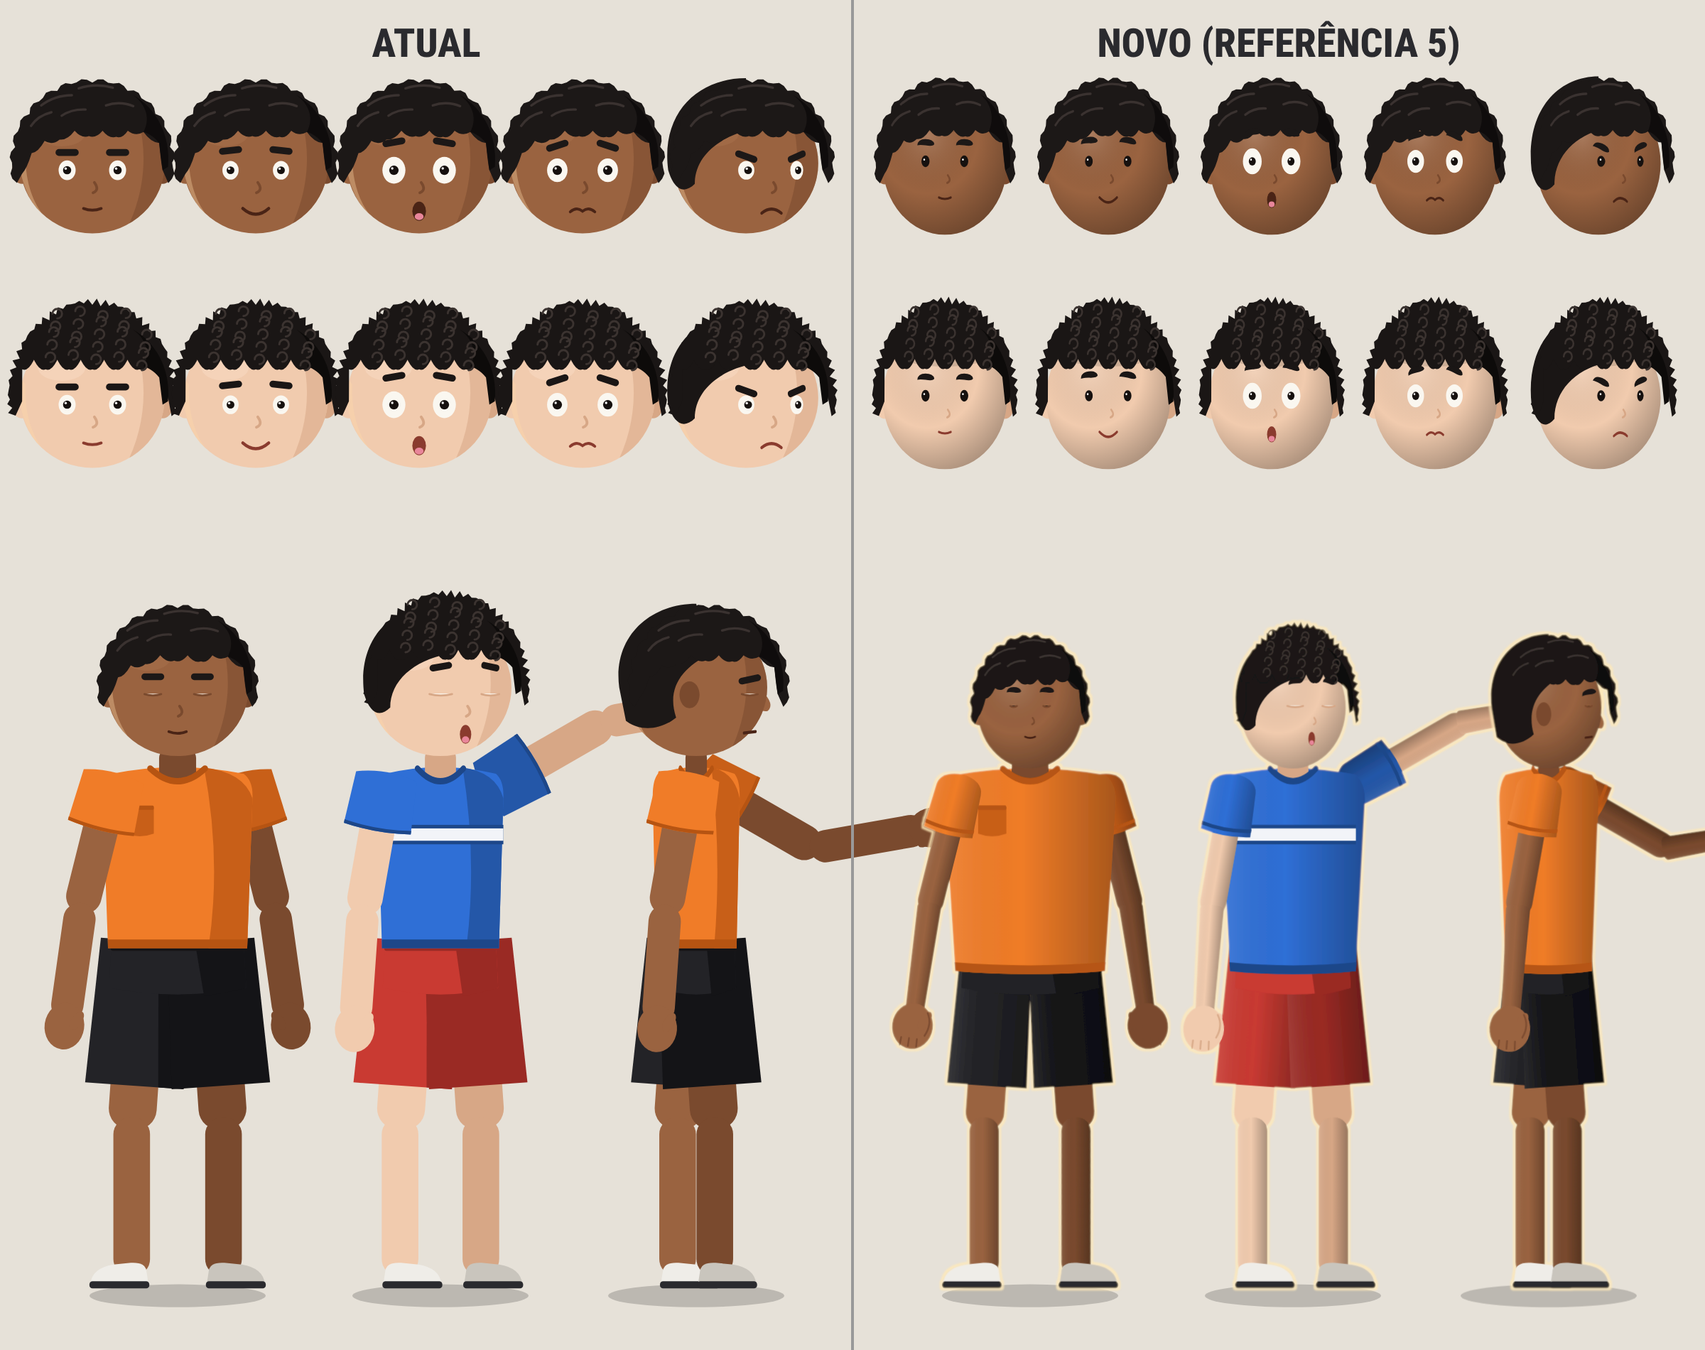
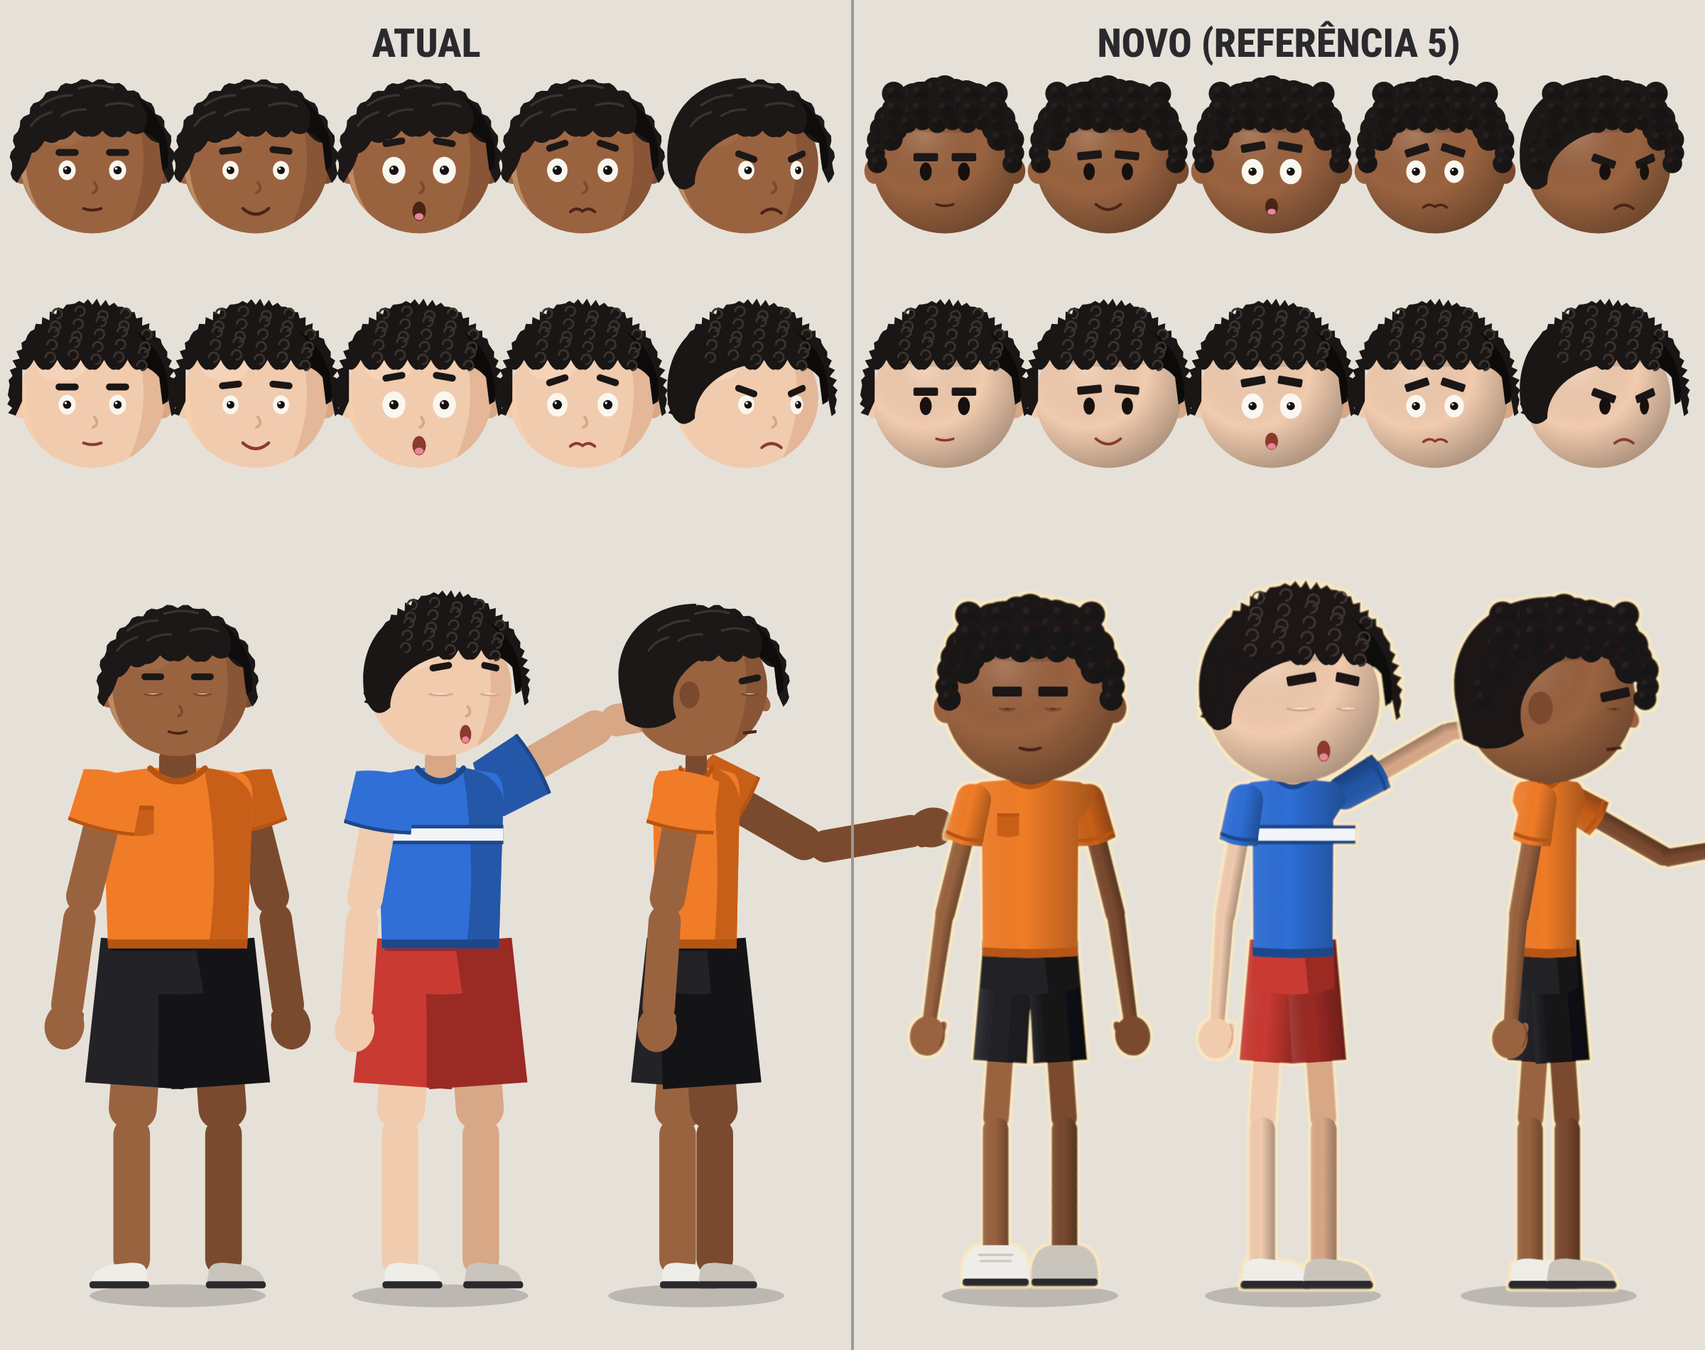
Chede no modelo boneco da imagem do usuário: cabeça grande, corpo longo e fino, cabelo em bolinhas
Claude-Session: https://claude.ai/code/session_01VxVnSB2Gp8guziDvUfHTY2

Changed region(s): [[0.5, 0.4347, 1.0, 0.9626], [0.5, 0.2174, 1.0, 0.3416], [0.5, 0.0621, 1.0, 0.1553]]

diff --git a/estudio/src/personagens/Chede.tsx b/estudio/src/personagens/Chede.tsx
@@ -108,9 +108,9 @@ const Olho: React.FC<{
   const cor = A.corPoder ?? "#FFB21E";
   const r3 = React.useContext(Rosto3Ctx);
   const grande = esp >= 1.15; // susto/medo: olho redondo grande
-  const k3 = r3 ? (grande ? 0.95 : 0.55) : 1;
+  const k3 = r3 ? (grande ? 0.95 : 0.7) : 1;
   const rx = 25 * esp * k3;
-  const ry = 29 * esp * k3 * (r3 && !grande ? 1.05 : 1) * (1 - piscar * 0.95);
+  const ry = 29 * esp * k3 * (r3 && !grande ? 1.3 : 1) * (1 - piscar * 0.95);
   const rp = r3 ? (grande ? 12 : rx * 0.9) : 12 * Math.min(esp, 1.15);
   const mv = r3 ? (grande ? 9 : 4) : 9;
   const fechamento = Math.min(1, semicerrado);
@@ -126,7 +126,7 @@ const Olho: React.FC<{
           {controlado > 0 && (
             <circle cx={ox * mv} cy={oy * mv} r={rp * 1.3} fill="none" stroke={cor} strokeWidth={r3 ? 4 : 5} opacity={controlado} />
           )}
-          <circle cx={ox * mv - rp * 0.35} cy={oy * mv - rp * 0.4} r={r3 ? 3 : 3.5} fill="#fff" opacity={controlado > 0 ? 1 - controlado * 0.8 : 1} />
+          {!(r3 && !grande) && <circle cx={ox * mv - rp * 0.35} cy={oy * mv - rp * 0.4} r={r3 ? 3 : 3.5} fill="#fff" opacity={controlado > 0 ? 1 - controlado * 0.8 : 1} />}
         </>
       )}
       {/* pálpebra superior (semicerrado / cansado) */}
@@ -168,7 +168,7 @@ const Sobrancelha: React.FC<{ x: number; y: number; ang: number; lado: 1 | -1 }>
   return (
     <g transform={`translate(${x},${y}) rotate(${-ang * lado})`}>
       {React.useContext(Rosto3Ctx)
-        ? <path d="M -28 6 Q -26 -12 0 -12 Q 26 -12 30 2 Q 28 10 0 6 Q -20 4 -28 6 Z" fill={C.cabelo} />
+        ? <rect x={-36} y={-2} width={72} height={24} rx={5} fill={C.cabelo} />
         : <rect x={-34} y={-10} width={68} height={20} rx={10} fill={C.cabelo} />}
     </g>
   );
@@ -239,9 +239,9 @@ export const Cabeca: React.FC<{ expressao: Expressao; pose: Pose; vista?: Vista 
   const perfil = vista === "perfil";
   const tres = vista === "tresQuartos";
   const r3 = React.useContext(Rosto3Ctx);
-  const ex = r3 ? 66 : 74; // distância dos olhos ao centro
+  const ex = r3 ? 56 : 74; // distância dos olhos ao centro
   return (
-    <g transform={r3 ? "scale(0.86,1.02)" : undefined}>
+    <g>
       <defs>
         <clipPath id={`clipCabeca-${vista}`}>
           <ellipse cx={0} cy={0} rx={212} ry={205} />
@@ -320,6 +320,8 @@ export const Cabeca: React.FC<{ expressao: Expressao; pose: Pose; vista?: Vista 
                   <path key={i} d={d} stroke={C.cabeloBrilho} strokeWidth={7} fill="none" strokeLinecap="round" />
                 ))}
               </>
+            ) : r3 && A.cabelo === "ondulado" ? (
+              <CabeloBolinhas cor={C.cabelo} sombra={C.cabeloSombra} brilho={C.cabeloBrilho} />
             ) : A.cabelo === "raspado" ? (
               <>
                 <path d={CABELO_RASPADO} fill={C.cabelo} opacity={0.9} />
@@ -419,7 +421,7 @@ export const Cabeca: React.FC<{ expressao: Expressao; pose: Pose; vista?: Vista 
       )}
       {/* rosto */}
       {!costas && (
-        <g transform={`translate(${fx},${r3 ? -6 : 20})`}>
+        <g transform={`translate(${fx},${r3 ? 24 : 20})`}>
           {!perfil && <Sobrancelha x={-ex} y={e.sobY} ang={e.sobAng} lado={-1} />}
           <g transform={tres ? "translate(74,0) scale(0.8,1) translate(-74,0)" : undefined}>
             <Sobrancelha x={perfil ? 10 : ex} y={e.sobY} ang={e.sobAng} lado={1} />
@@ -444,7 +446,7 @@ export const Cabeca: React.FC<{ expressao: Expressao; pose: Pose; vista?: Vista 
           )}
           {/* nariz */}
           {!perfil && (r3
-            ? <path d="M 10 40 Q 24 56 8 62" stroke={C.peleSombra} strokeWidth={6} fill="none" strokeLinecap="round" />
+            ? null
             : <path d="M 6 36 Q 22 58 2 66" stroke={C.peleSombra} strokeWidth={8} fill="none" strokeLinecap="round" />)}
           {/* sangue escorrendo do nariz (0..1 = comprimento) */}
           {(pose.sangueNariz ?? 0) > 0 && (() => {
@@ -455,7 +457,7 @@ export const Cabeca: React.FC<{ expressao: Expressao; pose: Pose; vista?: Vista 
               <path d={`M ${nx - 9} ${ny} C ${nx - 12} ${ny + L * 0.5} ${nx - 9} ${ny + L} ${nx - 2} ${ny + L + 8} C ${nx + 6} ${ny + L + 8} ${nx + 8} ${ny + L * 0.6} ${nx + 5} ${ny} Z`} fill="#C81E1E" />
             );
           })()}
-          <g transform={`translate(${perfil ? 10 : 0},${r3 ? 104 : 112}) scale(${(perfil ? 0.6 : tres ? 0.85 : 1) * (r3 ? 0.78 : 1)},${r3 ? 0.82 : 1})`}>
+          <g transform={`translate(${perfil ? 10 : 0},${r3 ? 96 : 112}) scale(${(perfil ? 0.6 : tres ? 0.85 : 1) * (r3 ? 0.95 : 1)},${r3 ? 0.9 : 1})`}>
             <Boca tipo={expressao} />
           </g>
           {A.oculosGrau && (
@@ -598,7 +600,7 @@ const Braco: React.FC<{
   const pele = sombra ? C.peleSombra : C.pele;
   const manga = sombra ? C.camisaSombra : C.camisa;
   const r3b = React.useContext(Rosto3Ctx);
-  const k = React.useContext(Corpo2Ctx) ? (r3b ? 1.3 : 1.75) : 1;
+  const k = React.useContext(Corpo2Ctx) ? (r3b ? 1.0 : 1.75) : 1;
   return (
     <g transform={`rotate(${-ombro * lado})`}>
       {/* braço */}
@@ -644,7 +646,7 @@ const Braco: React.FC<{
           <g stroke={C.peleSombra} strokeWidth={4} fill="none" strokeLinecap="round" opacity={0.85}>
             {/* polegar destacado e linhas dos dedos (como na referência) */}
             <path d={`M ${-30 * lado} 238 Q ${-44 * lado} 262 ${-30 * lado} 290`} />
-            {[-14, 4, 22].map((dx) => <path key={dx} d={`M ${dx * lado} ${300} L ${dx * lado * 1.05} ${318}`} />)}
+
           </g>
         )}
         {A.dedosLongos &&
@@ -669,29 +671,45 @@ const Perna: React.FC<{ lado: 1 | -1; quadril: number; joelho: number; sombra?: 
   const pe = paraDireita ? 1 : lado;
   const pele = sombra ? C.peleSombra : C.pele;
   const r3 = React.useContext(Rosto3Ctx);
-  const k = React.useContext(Corpo2Ctx) ? (r3 ? 1.3 : 1.6) : 1;
+  const k = React.useContext(Corpo2Ctx) ? (r3 ? 1.15 : 1.6) : 1;
   return (
     <g transform={`rotate(${-quadril * lado})`}>
       {/* coxa */}
-      <rect x={-34 * k} y={0} width={68 * k} height={390} rx={30 * k} fill={pele} />
+      {r3
+        ? <rect x={-26 * k} y={0} width={52 * k} height={390} rx={24 * k} fill={pele} />
+        : <rect x={-34 * k} y={0} width={68 * k} height={390} rx={30 * k} fill={pele} />}
       <g transform={`translate(0,376) rotate(${-joelho * lado})`}>
         <rect x={-26 * k} y={-14} width={52 * k} height={360} rx={24 * k} fill={pele} />
         {r3 && <rect x={-26 * k} y={-14} width={52 * k} height={360} rx={24 * k} fill="url(#sombraSuave3)" />}
         {terno && <path d={`M ${-50 * k} -30 L ${50 * k} -30 L ${42 * k} 340 L ${-42 * k} 340 Z`} fill={sombra ? C.bermudaSombra : C.bermuda} />}
         {/* tênis */}
-        <g transform={`translate(${12 * pe},364)`}>
-          <path d={`M ${-46} -26 Q ${-46} -50 ${-10} -48 L ${30} -44 Q ${78} -36 ${82} 0 L ${-50} 0 Z`} transform={pe === -1 ? "scale(-1,1)" : undefined} fill={sombra ? C.tenisSombra : C.tenis} />
-          <rect x={-52} y={-6} width={136} height={16} rx={7} fill={C.tenisSola} transform={pe === -1 ? "scale(-1,1)" : undefined} />
-        </g>
+        {r3 && !paraDireita ? (
+          <g transform="translate(0,368)">
+            {/* tênis grande visto de frente (estilo boneco) */}
+            <path d="M -76 -2 Q -82 -84 -34 -92 L 34 -92 Q 82 -84 76 -2 Z" fill={sombra ? C.tenisSombra : C.tenis} />
+            <path d="M -38 -70 L 38 -70 M -34 -56 L 34 -56" stroke={C.tenisSombra} strokeWidth={5} strokeLinecap="round" />
+            <rect x={-76} y={-16} width={152} height={18} rx={8} fill={C.tenisSola} />
+          </g>
+        ) : (
+          <g transform={`translate(${12 * pe},364) ${r3 ? "scale(1.2)" : ""}`}>
+            <path d={`M ${-46} -26 Q ${-46} -50 ${-10} -48 L ${30} -44 Q ${78} -36 ${82} 0 L ${-50} 0 Z`} transform={pe === -1 ? "scale(-1,1)" : undefined} fill={sombra ? C.tenisSombra : C.tenis} />
+            <rect x={-52} y={-6} width={136} height={16} rx={7} fill={C.tenisSola} transform={pe === -1 ? "scale(-1,1)" : undefined} />
+          </g>
+        )}
       </g>
       {/* perna da bermuda: acompanha a coxa */}
       {terno ? (
         <path d={`M ${-56 * k} -40 L ${56 * k} -40 L ${50 * k} 396 L ${-50 * k} 396 Z`} fill={sombra ? C.bermudaSombra : C.bermuda} />
       ) : (
         <>
-          <path d={`M ${-62 * k} -40 L ${62 * k} -40 L ${70 * k} 290 L ${-70 * k} 290 Z`} fill={sombra ? C.bermudaSombra : C.bermuda} />
+          {r3 ? (
+            <>
+              <path d={`M ${-50 * k} -40 L ${50 * k} -40 L ${54 * k} 236 L ${-54 * k} 236 Z`} fill={sombra ? C.bermudaSombra : C.bermuda} />
+              <path d={`M ${-50 * k} -40 L ${50 * k} -40 L ${54 * k} 236 L ${-54 * k} 236 Z`} fill="url(#sombraSuave3)" />
+            </>
+          ) : <path d={`M ${-62 * k} -40 L ${62 * k} -40 L ${70 * k} 290 L ${-70 * k} 290 Z`} fill={sombra ? C.bermudaSombra : C.bermuda} />}
           {r3
-            ? <path d={`M ${-62 * k} -40 L ${62 * k} -40 L ${70 * k} 290 L ${-70 * k} 290 Z`} fill="url(#sombraSuave3)" />
+            ? null
             : !sombra && <path d={`M ${20 * k} -40 L ${62 * k} -40 L ${70 * k} 290 L ${34 * k} 290 Z`} fill={C.bermudaSombra} />}
         </>
       )}
@@ -699,7 +717,41 @@ const Perna: React.FC<{ lado: 1 | -1; quadril: number; joelho: number; sombra?: 
   );
 };
 
-const TRONCO3 = "M -170 -1174 Q 0 -1204 170 -1174 Q 198 -1152 194 -1104 L 170 -728 Q 0 -714 -170 -728 L -194 -1104 Q -198 -1152 -170 -1174 Z";
+const TRONCO3 = "M -112 -1158 Q 0 -1170 112 -1158 Q 140 -1148 142 -1112 L 110 -1070 L 108 -762 Q 0 -754 -108 -762 L -110 -1070 L -142 -1112 Q -140 -1148 -112 -1158 Z";
+
+// Cabelo curto e cacheado em "bolinhas" (estilo boneco 3D, Chede no Rosto 3)
+const BOLINHAS = (() => {
+  const out: [number, number, number][] = [];
+  // contorno: das têmporas, por cima (sem cobrir as orelhas)
+  for (let i = 0; i <= 16; i++) {
+    const ang = Math.PI * (1.1 + (i / 16) * 0.8);
+    out.push([Math.cos(ang) * 206, Math.sin(ang) * 214 - 4, 34 + ((i * 7) % 3) * 4]);
+  }
+  // segundo anel por dentro (cabelo cheio, sem buracos)
+  for (let i = 0; i <= 13; i++) {
+    const ang = Math.PI * (1.12 + (i / 13) * 0.76);
+    out.push([Math.cos(ang) * 170, Math.sin(ang) * 178 - 6, 36]);
+  }
+  // laterais curtas (acima da orelha)
+  [[-204, -30], [204, -30], [-198, 0], [198, 0]].forEach(([x, y]) => out.push([x, y, 30]));
+  // franja: bolinhas na testa
+  for (let i = 0; i < 8; i++) out.push([-154 + i * 44, -126 + (i % 2) * 8, 30]);
+  // miolo
+  for (let i = 0; i < 10; i++) out.push([-150 + (i % 5) * 75, -205 + Math.floor(i / 5) * 46, 36]);
+  return out;
+})();
+const CabeloBolinhas: React.FC<{ cor: string; sombra: string; brilho: string }> = ({ cor, sombra, brilho }) => (
+  <g>
+    <path d="M -214 10 C -234 -150 -126 -240 0 -242 C 126 -240 234 -150 214 10 L 196 0 C 192 -50 168 -100 120 -112 Q 0 -130 -120 -112 C -168 -100 -192 -50 -196 0 Z" fill={cor} />
+    {BOLINHAS.map(([x, y, r], i) => (
+      <g key={i}>
+        <circle cx={x} cy={y} r={r * 0.96} fill={cor} />
+        <circle cx={x + r * 0.2} cy={y + r * 0.25} r={r * 0.6} fill={sombra} opacity={0.3} />
+        <circle cx={x - r * 0.25} cy={y - r * 0.3} r={r * 0.26} fill={brilho} opacity={0.35} />
+      </g>
+    ))}
+  </g>
+);
 
 // ---------- Corpo inteiro ----------
 export const Chede: React.FC<{ expressao?: Expressao; pose?: Pose; vista?: Vista; semSombra?: boolean }> = ({
@@ -712,8 +764,8 @@ export const Chede: React.FC<{ expressao?: Expressao; pose?: Pose; vista?: Vista
   const c2 = React.useContext(Corpo2Ctx);
   const r3 = React.useContext(Rosto3Ctx);
   const sx = vista === "perfil" ? 0.58 : vista === "tresQuartos" ? 0.84 : 1;
-  const ombroX = vista === "perfil" ? 20 : (r3 ? 160 : 150) * sx;
-  const quadrilX = vista === "perfil" ? 16 : (c2 ? 78 : 62) * sx;
+  const ombroX = vista === "perfil" ? 20 : (r3 ? 126 : 150) * sx;
+  const quadrilX = vista === "perfil" ? 16 : (r3 ? 52 : c2 ? 78 : 62) * sx;
   const costas = vista === "costas";
   const lateral = vista === "perfil" || vista === "tresQuartos";
   const resp = pose.respiracao ?? 0;
@@ -760,9 +812,11 @@ export const Chede: React.FC<{ expressao?: Expressao; pose?: Pose; vista?: Vista
       <g transform={`rotate(${P.tronco ?? 0} 0 ${Math.abs(P.tronco ?? 0) > 30 ? -760 : -560}) translate(0,${-resp * 6})`}>
         {/* bermuda */}
         <g transform={`scale(${sx},1)`}>
+        <g transform={r3 ? "scale(0.72,1)" : undefined}>
         <path d="M -150 -790 L 150 -790 L 156 -690 Q 0 -660 -156 -690 Z" fill={C.bermuda} />
         <path d="M 40 -790 L 150 -790 L 156 -690 Q 100 -676 60 -672 Z" fill={C.bermudaSombra} />
         <rect x={-152} y={-800} width={304} height={26} rx={6} fill={C.bermudaSombra} />
+        </g>
         </g>
         {useA().mochila && (vista === "perfil" || vista === "tresQuartos") && (
           <g transform={`scale(${sx},1)`}>
@@ -771,7 +825,7 @@ export const Chede: React.FC<{ expressao?: Expressao; pose?: Pose; vista?: Vista
           </g>
         )}
         {/* braço de trás (direita da tela) */}
-        <g transform={`translate(${ombroX},-1150)`}>
+        <g transform={`translate(${ombroX},${r3 ? -1128 : -1150})`}>
           <Braco lado={1} ombro={P.bracoD} cotovelo={P.antebracoD} sombra />
         </g>
         <g transform={`scale(${sx},1)`}>
@@ -799,13 +853,15 @@ export const Chede: React.FC<{ expressao?: Expressao; pose?: Pose; vista?: Vista
           </>
         )}
         {r3
-          ? <path d="M -172 -748 Q 0 -734 172 -748 L 170 -728 Q 0 -714 -170 -728 Z" fill={C.camisaDetalhe} />
+          ? <path d="M -109 -782 Q 0 -774 109 -782 L 108 -762 Q 0 -754 -108 -762 Z" fill={C.camisaDetalhe} />
           : <path d="M -158 -800 L 158 -800 L 158 -780 L -158 -780 Z" fill={C.camisaDetalhe} />}
         {/* pescoço + gola */}
-        <rect x={-42} y={-1232} width={84} height={70} rx={20} fill={C.peleSombra} />
+        {r3 ? <rect x={-30} y={-1196} width={60} height={50} rx={16} fill={C.peleSombra} /> : <rect x={-42} y={-1232} width={84} height={70} rx={20} fill={C.peleSombra} />}
         {costas ? (
           <path d="M -60 -1196 Q 0 -1186 60 -1196" stroke={C.camisaDetalhe} strokeWidth={14} fill="none" strokeLinecap="round" />
-        ) : useA().estampa === "terno" ? null : (
+        ) : useA().estampa === "terno" ? null : r3 ? (
+          <path d="M -40 -1160 Q 0 -1132 40 -1160" stroke={C.camisaDetalhe} strokeWidth={10} fill="none" strokeLinecap="round" />
+        ) : (
           <path d="M -62 -1188 Q 0 -1130 62 -1188" stroke={C.camisaDetalhe} strokeWidth={14} fill="none" strokeLinecap="round" />
         )}
         {/* terno: barra do paletó, camisa, gravata, lapelas */}
@@ -838,7 +894,7 @@ export const Chede: React.FC<{ expressao?: Expressao; pose?: Pose; vista?: Vista
           </g>
         )}
         {useA().estampa === "bolso" && (vista === "frente" || vista === "tresQuartos") && (
-          <g transform={vista === "tresQuartos" ? "translate(40,0)" : undefined}>
+          <g transform={`${vista === "tresQuartos" ? "translate(40,0)" : ""} ${r3 ? "translate(36,10)" : ""} ${r3 ? "translate(-86,-1070) scale(0.78) translate(86,1070)" : ""}`}>
             <path d="M -118 -1100 L -54 -1100 L -54 -1040 Q -86 -1028 -118 -1040 Z" fill={C.camisaSombra} />
             <rect x={-118} y={-1104} width={64} height={10} rx={3} fill={C.camisaDetalhe} />
           </g>
@@ -881,11 +937,11 @@ export const Chede: React.FC<{ expressao?: Expressao; pose?: Pose; vista?: Vista
           )}
         </g>
         {/* braço da frente (esquerda da tela) */}
-        <g transform={`translate(${-ombroX},-1150)`}>
+        <g transform={`translate(${-ombroX},${r3 ? -1128 : -1150})`}>
           <Braco lado={-1} ombro={P.bracoE} cotovelo={P.antebracoE} />
         </g>
         {/* cabeça */}
-        <g transform={`translate(0,${r3 ? -1326 : c2 ? -1372 : -1420}) rotate(${P.cabeca ?? 0} 0 190) scale(${r3 ? 0.66 : c2 ? 0.76 : 1})`}>
+        <g transform={`translate(0,${r3 ? -1346 : c2 ? -1372 : -1420}) rotate(${P.cabeca ?? 0} 0 190) scale(${r3 ? 0.93 : c2 ? 0.76 : 1})`}>
           <Cabeca expressao={expressao} pose={P} vista={vista} />
         </g>
       </g>

diff --git a/estudio/src/Root.tsx b/estudio/src/Root.tsx
@@ -15,6 +15,7 @@ import { DURACAO_HIBRIDO, TesteHibrido } from "./estilo2/TesteHibrido";
 import { Vitrine4 } from "./estilo2/Vitrine4";
 import { Debug } from "./estilo2/Debug";
 import { Comparar } from "./estilo2/Comparar";
+import { Alvo } from "./estilo2/Alvo";
 import { FichaFigurantes } from "./personagens/FichaFigurantes";
 import { FichaLia } from "./personagens/Lia";
 import { DURACAO_LIM4, Limites4 } from "./episodios/limites4/Limites4";
@@ -70,6 +71,7 @@ export const RemotionRoot: React.FC = () => (
     <Composition id="TesteKaik3D" component={TesteKaik3D} width={1080} height={1920} fps={30} durationInFrames={120} />
     <Composition id="Teste3D" component={Teste3D} width={1080} height={1920} fps={30} durationInFrames={90} defaultProps={{ modo: "baixo" as const }} />
     <Still id="FichaFigurantes" component={FichaFigurantes} width={2400} height={2000} />
+    <Still id="Alvo" component={Alvo} width={2048} height={1536} />
     <Still id="Comparar" component={Comparar} width={2400} height={1960} />
     <Still id="Debug" component={Debug} width={2400} height={1900} />
     <Still id="FotoPerfil" component={FotoPerfil} width={1080} height={1080} />

diff --git a/estudio/src/estilo2/Alvo.tsx b/estudio/src/estilo2/Alvo.tsx
@@ -1,0 +1,13 @@
+import React from "react";
+import { AbsoluteFill, Img, staticFile } from "remotion";
+import { Vivo } from "../episodios/comum";
+
+// Imagem-alvo do usuário (local, fora do Git) ao lado do nosso Chede, mesma altura.
+export const Alvo: React.FC = () => (
+  <AbsoluteFill style={{ background: "#fff" }}>
+    <Img src={staticFile("tmp-alvo/alvo.png")} style={{ position: "absolute", left: 0, top: 0, width: 1024, height: 1536 }} />
+    <svg viewBox="0 0 1024 1536" width={1024} height={1536} style={{ position: "absolute", left: 1024, top: 0 }}>
+      <Vivo quem="chede" x={512} y={1510} s={0.955} vista="frente" expr="neutro" pose={{ bracoE: 3, bracoD: 3, antebracoE: 0, antebracoD: 0 }} parado semSombra />
+    </svg>
+  </AbsoluteFill>
+);

diff --git a/aprendizados.md b/aprendizados.md
@@ -165,3 +165,4 @@ Regras que valem para todos os vídeos. Cada uma com o motivo.
   - tronco com ombro arredondado e cintura mais fina, manga arredondada, sombra em degradê suave.
   Rodada 3 (09/11, com a referência 6): cabeça oval e menor (0,66 com 0,86 de largura), rosto um pouco mais alto, braços e pernas mais finos (1,3), camiseta reta até o quadril, contorno de luz fino em volta do corpo (`contornoLuz3`). Rodada 2: cabeça menor (0,68), camiseta mais larga e comprida até o quadril, olho normal = oval escura (branco só no susto), sombra em degradê no rosto, braços e pernas, braços/pernas um pouco mais finos, mãos maiores, manga sem ombreira. Comparação em `previas/teste-rosto-3.png`. Usuário: "reajustar até pegar o resultado que eu goste".
 - **Imagem de comparação com quadros de referência NUNCA vai para o Git** (bloqueio de 09/11). A folha `Comparar` (quadros da referência + nossos personagens) é renderizada só no rascunho; os quadros ficam em `estudio/public/tmp-ref*/` (ignorados). Motivo: material de terceiros fica só local.
+- **Modelo oficial do Chede = boneco da imagem do usuário** (09/11, "crie um personagem 3D seguindo exatamente as proporções"): cabeça grande e redonda (escala 0,93, centro em −1346), olhos ovais pretos sem brilho, sobrancelhas em barra grossa, sem nariz, boca pequena, orelhas à mostra, cabelo curto em "bolinhas" (`CabeloBolinhas`), pescoço curto, tronco comprido e fino (`TRONCO3`), braços longos e finos (k 1,0), pernas longas e retas sem joelho marcado (k 1,15), bermuda estreita, tênis grande branco visto de frente com faixa preta, sombra suave em degradê e contorno de luz. Comparação lado a lado no rascunho (`Alvo`, imagem do usuário fica fora do Git em `estudio/public/tmp-alvo/`).
